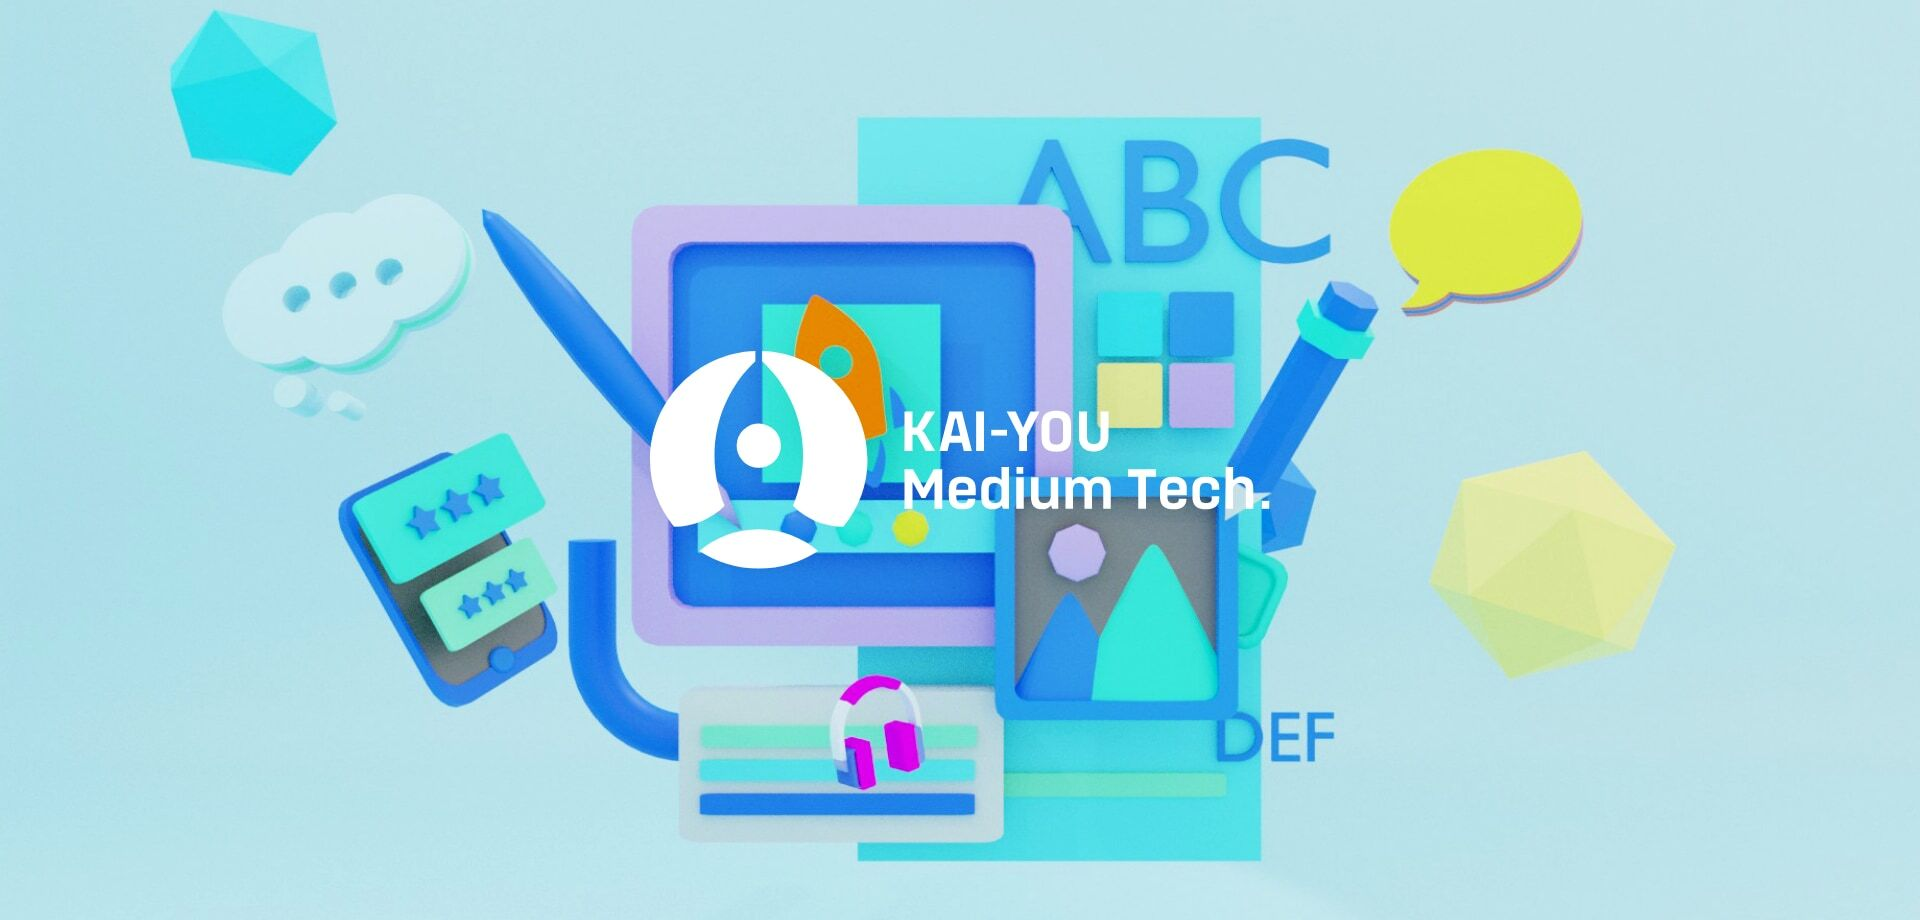
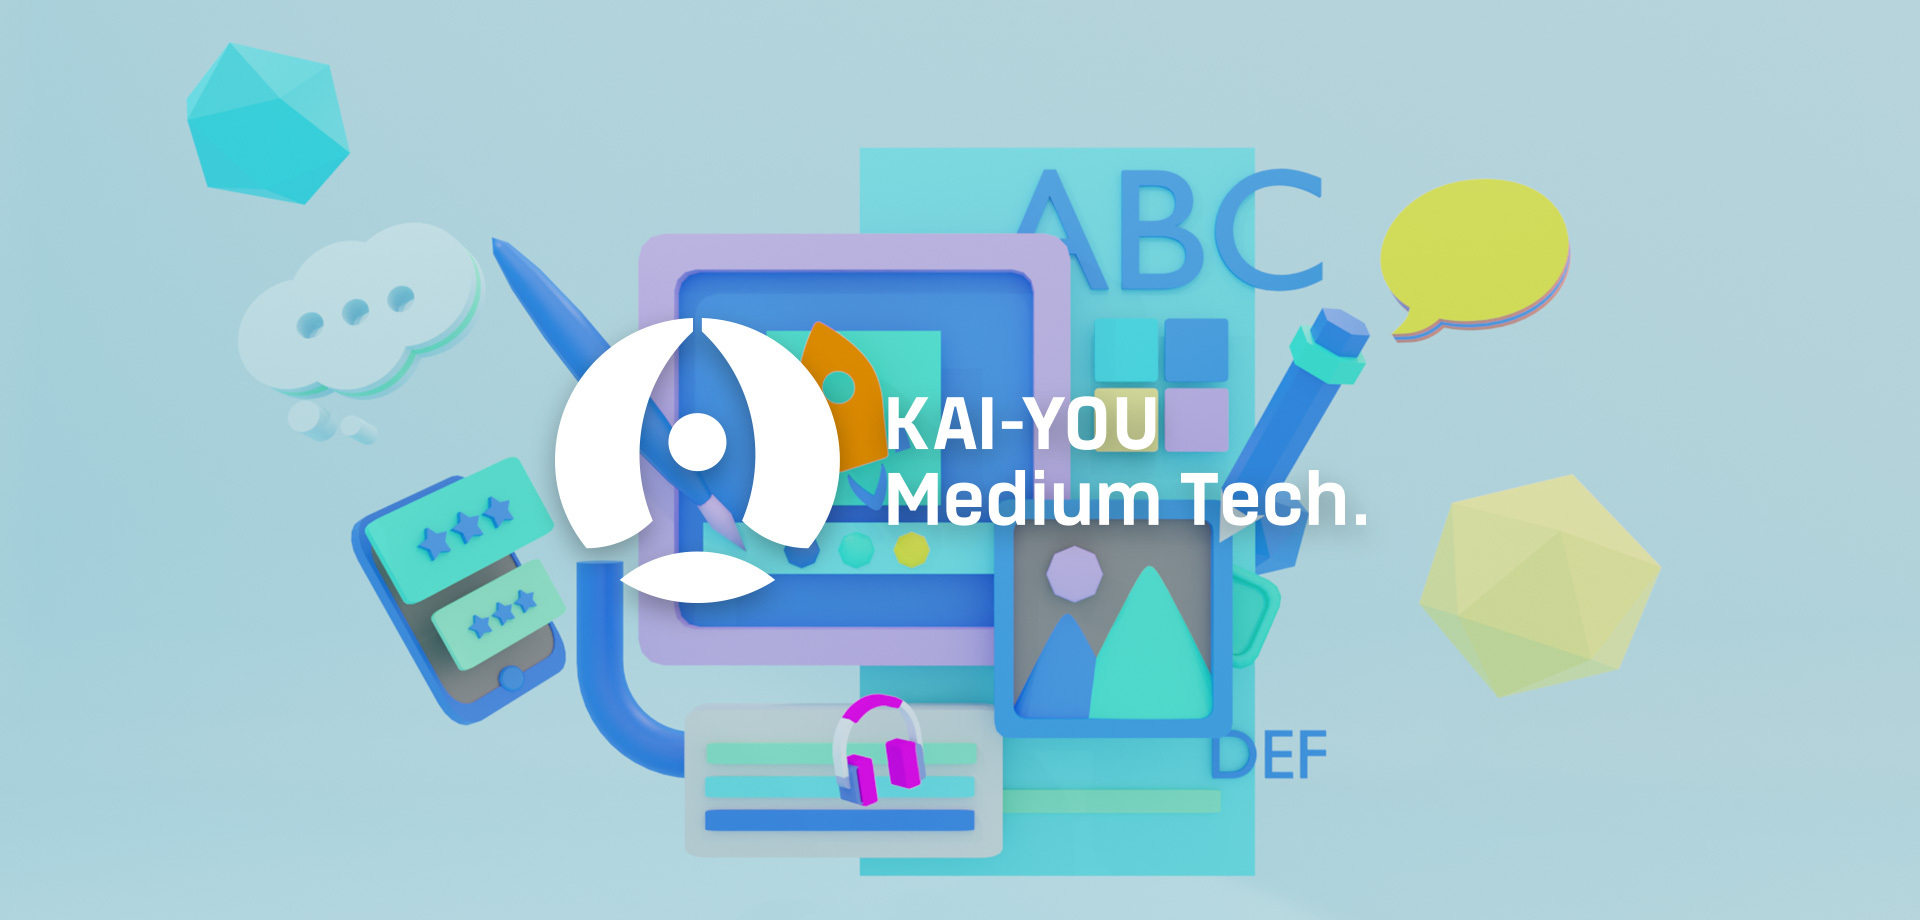
OGP画像変更

Changed region(s): [[0.0625, 0.0, 0.8438, 0.9739], [0.75, 0.487, 0.875, 0.7], [0.7188, 0.6391, 0.8438, 0.7609]]

diff --git a/nuxt.config.js b/nuxt.config.js
@@ -14,10 +14,10 @@ export default {
       { name: 'viewport', content: 'width=device-width, initial-scale=1' },
       { hid: 'og:site_name', property: 'og:site_name', content: 'KAI-YOU Medium Tech.' },
       { hid: 'og:type', property: 'og:type', content: 'company' },
-      { hid: 'og:url', property: 'og:url', content: 'https://umtc.kai-you.co.jp/umtc-kv.jpg' },
+      { hid: 'og:url', property: 'og:url', content: 'https://umtc.kai-you.co.jp/' },
       { hid: 'og:title', property: 'og:title', content: 'KAI-YOU Medium Tech.' },
       { hid: 'og:description', property: 'og:description', content: 'わたしたちは、KAI-YOUの運営するメディアを推進するWebサービス開発・コンテンツ制作チームです。10年という歳月にわたって多角的にメディアを運営してきたエンジニアリングと編集力で、超情報化社会の海を泳ぐ推進力を備えたMedium[媒体]を編纂します。' },
-      { hid: 'og:image', property: 'og:image', content: 'https://umtc.kai-you.co.jp/umtc-kv.jpg' },
+      { hid: 'og:image', property: 'og:image', content: 'https://umtc.kai-you.co.jp/umtc-kv.jpg?20211015' },
       { name: 'twitter:card', content: 'summary_large_image' },
       { name: 'twitter:url', content: 'https://umtc.kai-you.co.jp' },
       { name: 'twitter:title', content: 'KAI-YOU Medium Tech.' },
